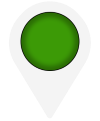
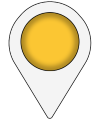
Add bottom circle when active

Changed region(s): [[0.21, 0.0744, 0.81, 0.595], [0.06, 0.0, 0.93, 0.9917]]

diff --git a/src/screens/Game/components/Pile.tsx b/src/screens/Game/components/Pile.tsx
@@ -1,12 +1,11 @@
-import {View, Text, StyleSheet, Animated, Easing, TouchableOpacity, Image} from 'react-native'
-import React, {useEffect, useMemo, useRef} from 'react'
-import Svg, {Circle} from 'react-native-svg'
-import {W} from '@utils/dimensions'
-import type {Num} from '../zustand/gameStore'
-import {COLS} from '@utils/colors'
-import {G1Icon, G2Icon, G3Icon, G4Icon} from '@assets/icons/icons'
-import {w} from './MidBox'
 import Images from '@assets/images/images'
+import { W } from '@utils/dimensions'
+import React, { useEffect, useMemo, useRef } from 'react'
+import { Animated, Easing, StyleSheet, View } from 'react-native'
+import Anim, { useAnimatedStyle, useSharedValue, withRepeat, withTiming } from 'react-native-reanimated'
+import { Circle, Svg } from 'react-native-svg'
+import type { Num } from '../zustand/gameStore'
+import gameStore from '../zustand/gameStore'
 
 type PileProps = {
   player: Num
@@ -16,10 +15,19 @@ type PileProps = {
 const PileIcons = [Images.G1, Images.G2, Images.G3, Images.G4]
 
 export default function Pile({player}: PileProps) {
-  const isCellEnabled = true
-  const isPileEnabled = true
   const isForwardable = () => true
   const rotation = useRef(new Animated.Value(0)).current
+  const activePlayer = gameStore((state) => state.chancePlayer)
+
+  const opacity = useSharedValue(1)
+
+  useEffect(() => {
+    opacity.value = activePlayer === player ? withRepeat(withTiming(0.5, {duration: 500}), -1, true) : 1
+  }, [activePlayer, opacity, player])
+
+  const animatedStyle = useAnimatedStyle(() => ({
+    opacity: opacity.value,
+  }))
 
   useEffect(() => {
     const rotateAnimation = Animated.loop(
@@ -45,11 +53,12 @@ export default function Pile({player}: PileProps) {
   )
 
   const PileIcon = PileIcons[player]
+  const isCell = true
 
   return (
-    <View className='absolute items-center justify-center'>
-      {/* <View style={styles.hollowCircle}>
-        {(isCell ? isCellEnabled && isForwardable() : isPileEnabled) && (
+    <Anim.View className='absolute items-center justify-center'>
+      {isForwardable() && player === activePlayer && (
+        <View style={styles.hollowCircle}>
           <View style={styles.dashedCircleContainer}>
             <Animated.View style={[styles.dashedCircle, {transform: [{rotate: rotateInterpolate}]}]}>
               <Svg height='18' width='18'>
@@ -57,8 +66,8 @@ export default function Pile({player}: PileProps) {
               </Svg>
             </Animated.View>
           </View>
-        )}
-      </View> */}
+        </View>
+      )}
       {/* <PileIcon
         // width={W * 0.07}
         // height={W * 0.07}
@@ -70,17 +79,20 @@ export default function Pile({player}: PileProps) {
           width: W * 0.06,
         }}
       /> */}
-      <Image
+      <Anim.Image
         source={PileIcon}
-        style={{
-          width: W * 0.06,
-          position: 'absolute',
-          height: W * 0.075,
-          zIndex: 100,
-          transform: [{translateY: -W * 0.02}],
-        }}
+        style={[
+          {
+            width: W * 0.06,
+            position: 'absolute',
+            height: W * 0.075,
+            zIndex: 100,
+            transform: [{translateY: -W * 0.02}],
+          },
+          animatedStyle,
+        ]}
       />
-    </View>
+    </Anim.View>
   )
 }
 

diff --git a/src/screens/Game/components/Cell.tsx b/src/screens/Game/components/Cell.tsx
@@ -31,6 +31,8 @@ function Cell({cell, i, color, ...props}: CellProps) {
   const isStarting = useMemo(() => startingPoints.includes(cell), [cell])
   const isArrow = useMemo(() => ArrowSpot.includes(cell), [cell])
 
+  const chancePlayer = gameStore((state) => state.chancePlayer)
+
   const currentPositions = gameStore((state) => state.currentPositions)
 
   const picesAtThisCell = useMemo(() => currentPositions.filter((p) => p.pos === cell), [currentPositions, cell])
@@ -88,7 +90,7 @@ function Cell({cell, i, color, ...props}: CellProps) {
                   {translateX},
                   {translateY},
                 ],
-                zIndex: zIndex.current,
+                zIndex: p.player === chancePlayer ? 10000 : zIndex.current,
               }}>
               <Pile player={p.player} />
             </View>
